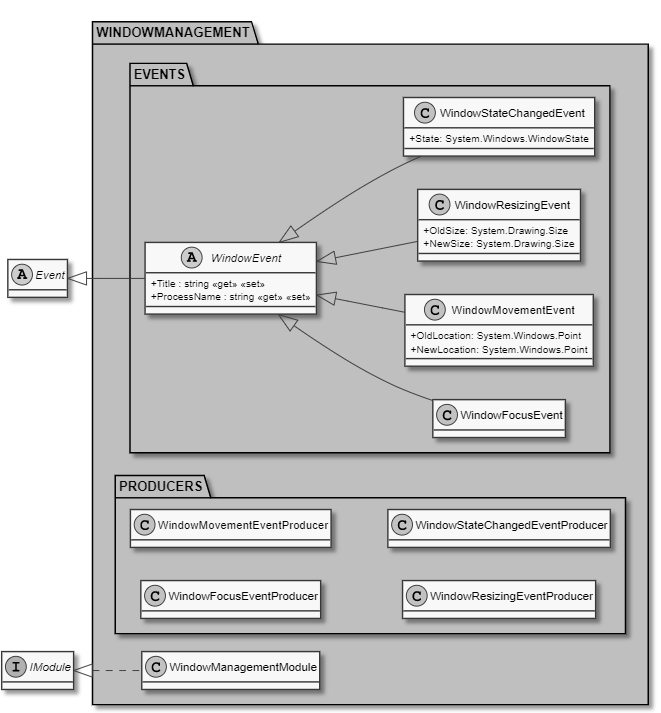
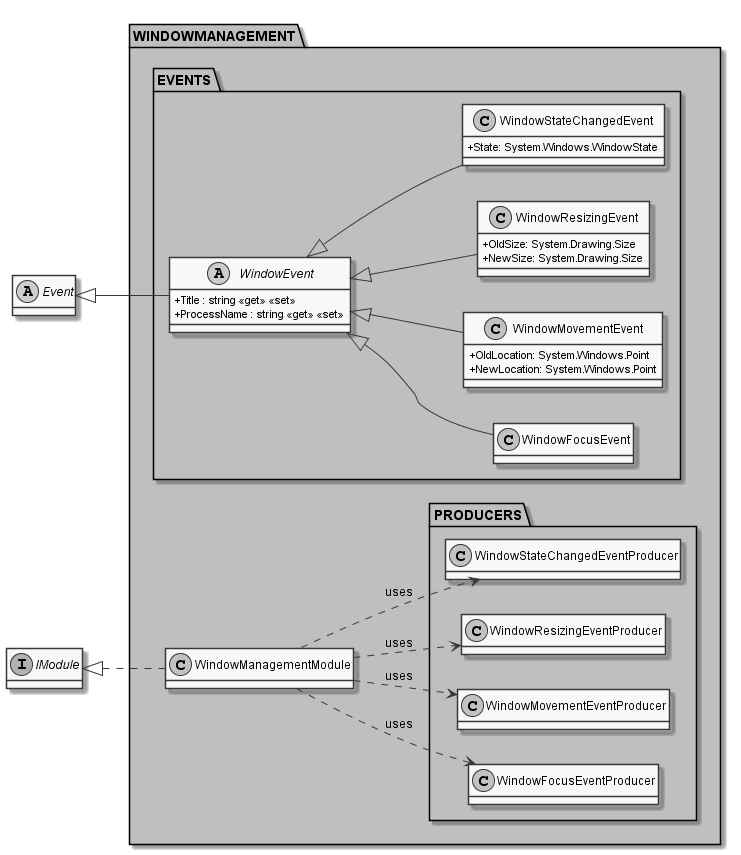
Update size of diagrams in module section. Add updated resources.

diff --git a/documents/sd/chapter/versionhistory.tex b/documents/sd/chapter/versionhistory.tex
@@ -39,7 +39,7 @@
 1.1.0			  & 20.03.2020	  & Update software-design:\\
 && Update Shared\\
 && (Added constructors and property for injecting filesystem\\
-&& in ConfigurationManager, JsonDecoder, JsonEncoder, MpegEncoder,
+&& in ConfigurationManager, JsonDecoder, JsonEncoder, MpegEncoder, \\ 
 && SessionManager. Changed properties in DesktopCaptureConfiguration,\\
 && GlobalModuleConfiguration, SessionConfiguration)\\
 && Update Core\\

diff --git a/documents/sd/chapter/Classes/Modules/WindowManagement/WindowManagement.tex b/documents/sd/chapter/Classes/Modules/WindowManagement/WindowManagement.tex
@@ -1,7 +1,7 @@
 \subsection{WindowManagement}
 
 \begin{class}{WindowManagementModule} 
-    \clsdiagram[scale = 0.9]{resources/Classes/Modules/WindowManagement/WindowManagementModule.png}
+    \clsdiagram[width=0.80\textwidth]{resources/Classes/Modules/WindowManagement/WindowManagementModule.png}
 
     \clsdcl{public class WindowManagementModule : IModule}
 

diff --git a/documents/sd/chapter/Classes/Modules/Clipboard/Clipboard.tex b/documents/sd/chapter/Classes/Modules/Clipboard/Clipboard.tex
@@ -1,7 +1,7 @@
     \subsection{Clipboard}
 
 \begin{class}{ClipboardModule} 
-    \clsdiagram[scale = 0.9]{resources/Classes/Modules/Clipboard/ClipboardModule.png}
+    \clsdiagram[width=0.80\textwidth]{resources/Classes/Modules/Clipboard/ClipboardModule.png}
 
     \clsdcl{public class ClipboardModule : IModule}
 

diff --git a/documents/sd/chapter/Classes/Modules/WebBrowser/WebBrowser.tex b/documents/sd/chapter/Classes/Modules/WebBrowser/WebBrowser.tex
@@ -1,7 +1,7 @@
 \subsection{Webbrowser}
 
 \begin{class}{WebBrowserModule} 
-	\clsdiagram[scale = 0.8]{resources/Classes/Modules/WebBrowser/WebBrowserModule.png}
+	\clsdiagram[width=0.80\textwidth]{resources/Classes/Modules/WebBrowser/WebBrowserModule.png}
 	
     \clsdcl{public class WebBrowserModule : IModule}
 

diff --git a/documents/sd/chapter/Classes/Modules/Mouse/Mouse.tex b/documents/sd/chapter/Classes/Modules/Mouse/Mouse.tex
@@ -1,7 +1,7 @@
 \subsection{Mouse}
 
 \begin{class}{MouseModule} 
-    \clsdiagram[scale = 0.7]{resources/Classes/Modules/Mouse/MouseModule.png}
+    \clsdiagram[width=0.80\textwidth]{resources/Classes/Modules/Mouse/MouseModule.png}
 
     \clsdcl{public class MouseModule : IModule}
 
